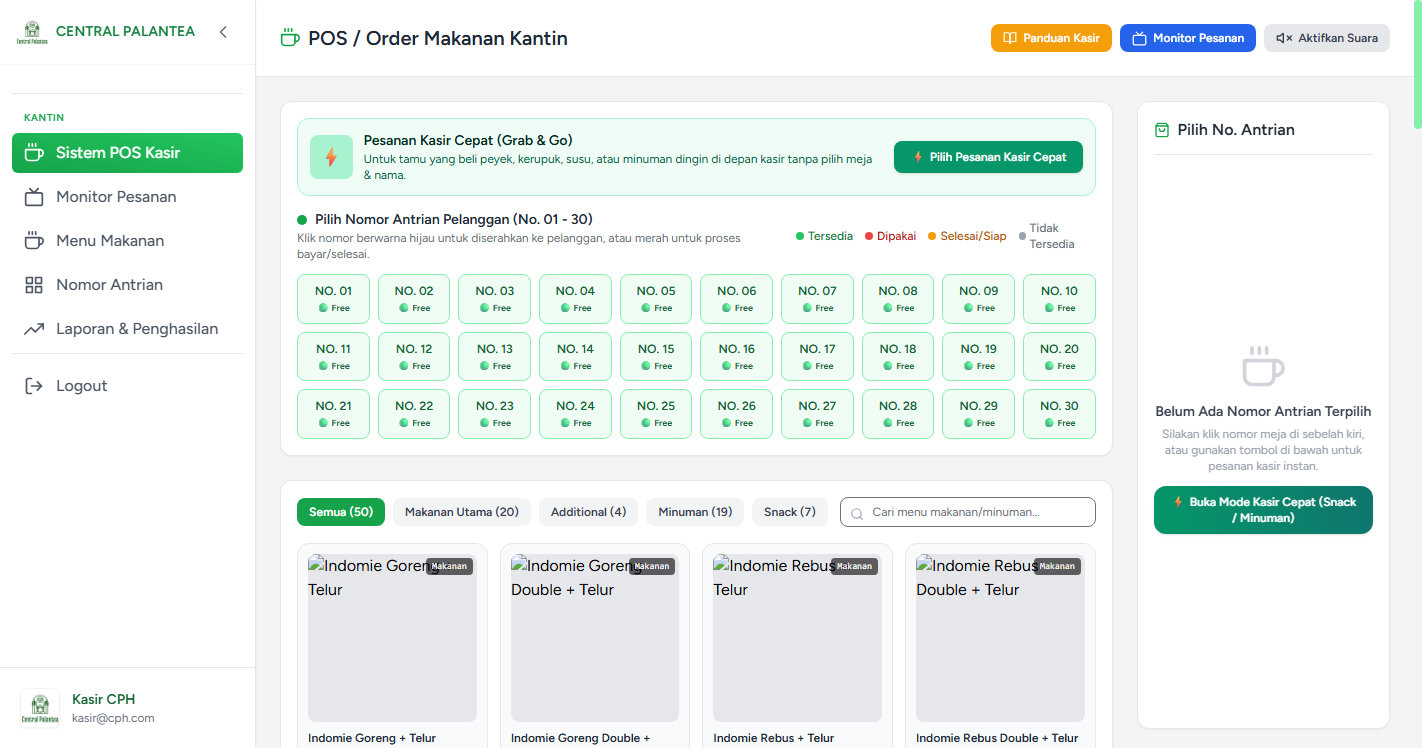
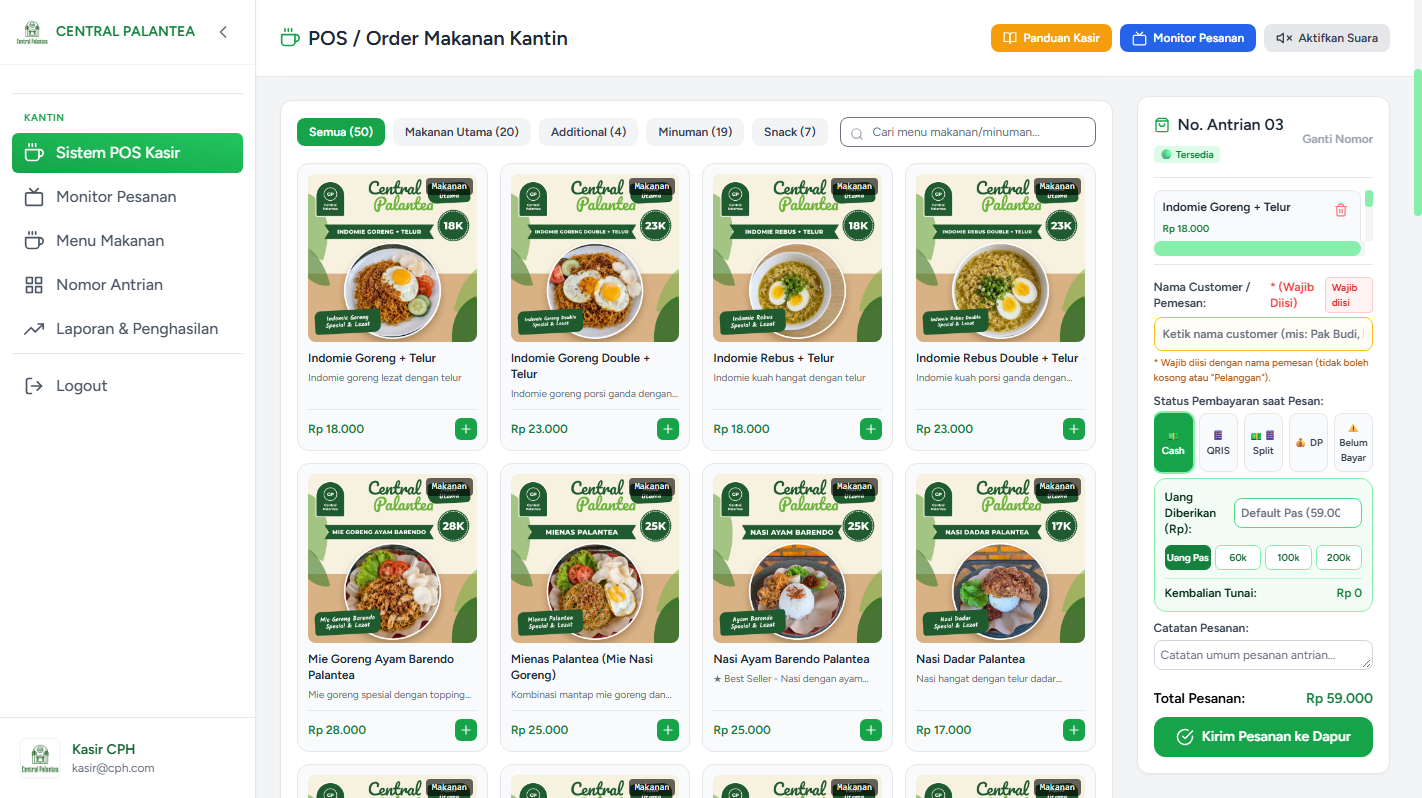
feat: Replace POS screenshot with high-res food menu cards and active cart view

diff --git a/GEMINI.md b/GEMINI.md
@@ -1192,3 +1192,11 @@ pm run build:static).
 ### 6. Sinkronisasi Git & GitHub
 - Melakukan commit perubahan: `feat: Add Palantea POS & KDS contract project, work experience, and screenshots` (Hash: `2938ef9`).
 - Berhasil di-push ke remote repository `origin/main` (`https://github.com/nadilastack/portofolio.git`).
+
+### 7. Pembaruan Tangkapan Layar Menu POS Kasir
+- Memperbaiki rendering gambar menu F&B pada antarmuka Kasir (`Kasir.jsx`) dengan menambahkan encoding presisi `%2B` untuk nama file yang memuat karakter plus (`+`).
+- Mengganti screenshot `public/images/projects/pos_kasir_screen.png` dengan tangkapan layar baru yang berfokus penuh pada **Katalog Menu Makanan**:
+  - Menampilkan foto menu resolusi tinggi asli (Indomie Goreng, Indomie Rebus, Mie Goreng Ayam Barendo, Mienas Palantea, Nasi Ayam Barendo Palantea, Nasi Dadar).
+  - Menampilkan badge kategori, label harga `18K`, `23K`, `25K`, `28K`, dan deskripsi menu.
+  - Menampilkan status meja aktif (No. Antrian 03) serta keranjang kasir terisi hidangan dan opsi pembayaran.
+- Membangun kembali aset statis via `npm run build:static` dan `npm run build`.
